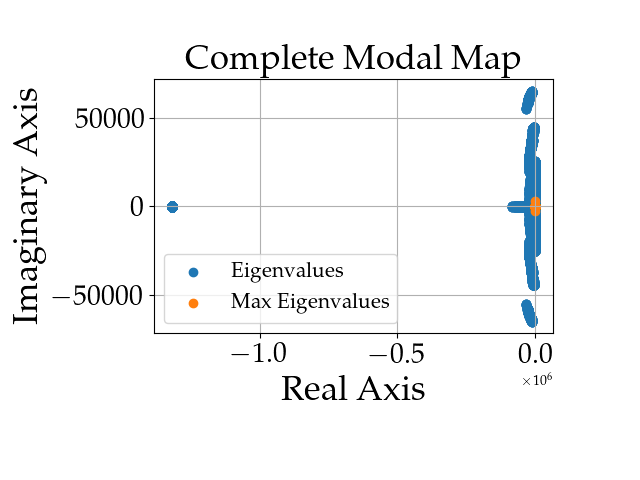
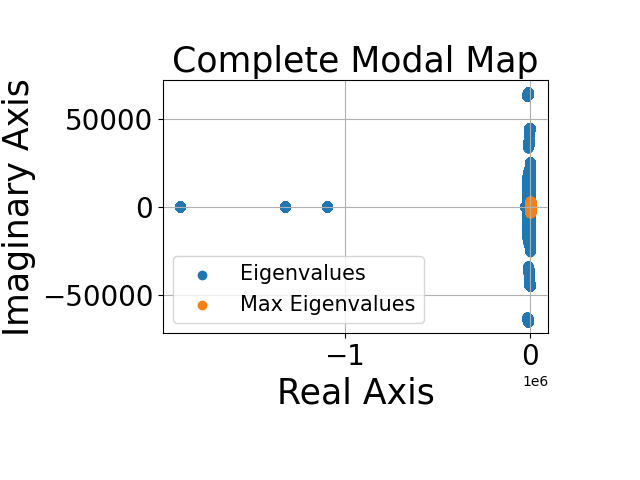
minor changes

diff --git a/identification_of_critical_eigenvalues/clustering_selection_MNdata.py b/identification_of_critical_eigenvalues/clustering_selection_MNdata.py
@@ -1,0 +1,394 @@
+
+"""
+this file 
+- imports and cleans eigenvalue data
+- plots the modal map of the eigenvalues on the real-imaginary axis
+- identifies critical eigenvalues through different clustering methods
+- tests different parameters for the different clustering methods
+- selects the best clustering method and parameters based on silhouette score
+- identifies if there are cases without an eigenvalue in each cluster and 
+  if so, moves closest eigenvalue to that cluster
+- exports information on best clustering model to a csv file 
+
+"""
+
+import pandas as pd
+import matplotlib.pyplot as plt
+import numpy as np
+from sklearn.cluster import KMeans
+from sklearn.cluster import DBSCAN
+from sklearn.cluster import OPTICS
+from sklearn.neighbors import NearestNeighbors
+from sklearn.neighbors import NearestCentroid
+from sklearn.metrics import silhouette_samples, silhouette_score
+from sklearn.model_selection import RandomizedSearchCV, train_test_split
+import matplotlib.cm as cm
+from sklearn.preprocessing import StandardScaler
+import copy
+import joblib
+import os
+
+
+#%% Functions
+def exclude_50Hz_eig(real_selected_df, imag_selected_df, plot_figure=True):
+    
+    imag_selected_df=imag_selected_df.round(3)
+
+    imag_selected_no50Hz=pd.DataFrame()
+    real_selected_no50Hz=pd.DataFrame()
+
+    for i in real_selected_df.columns:
+        imag_serie = imag_selected_df[imag_selected_df[i] != 314.159][i]  # Use boolean indexing instead of query
+        real_serie = real_selected_df.loc[imag_serie.index,i]
+        
+        if i ==0:
+            imag_selected_no50Hz=pd.DataFrame(imag_serie).copy(deep=True).reset_index(drop=True)
+            real_selected_no50Hz=pd.DataFrame(real_serie).copy(deep=True).reset_index(drop=True)
+        else:
+            real_selected_no50Hz=real_selected_no50Hz.merge(pd.DataFrame(real_serie).reset_index(drop=True), how='outer', left_index=True, right_index=True)
+            imag_selected_no50Hz=imag_selected_no50Hz.merge(pd.DataFrame(imag_serie).reset_index(drop=True), how='outer', left_index=True, right_index=True)
+
+    if plot_figure:
+        fig=plt.figure()
+        ax=fig.add_subplot()
+        ax.set_xlabel('Real Axis',fontsize=25)
+        ax.set_ylabel('Imaginary Axis',fontsize=25)
+        ax.set_xlim(x_region)
+        ax.set_ylim(y_region)
+        ax.tick_params(labelsize=20)
+        fig.tight_layout()
+        plt.grid()
+        ax.scatter(real_selected_no50Hz,imag_selected_no50Hz, label='Eigenvalues')
+        ax.legend(loc='lower center',bbox_to_anchor=(0.45, -0.65),fontsize=15, ncol=2)
+        ax.set_title('Modal Map Zoom - No 50Hz eigs', fontsize=25)
+        plt.show()
+    return real_selected_no50Hz, imag_selected_no50Hz
+
+def check_cluster_memberships(labels_reshape, k):
+    ClustersMissingEigs = 0
+    SampleClusterPairs = []  # List to store (sample, cluster) pairs
+    
+    for i in range(labels_reshape.shape[1]):  # For every column (sample)
+        for l in k:  # For each cluster
+            if not any(labels_reshape[:, i] == l): 
+                print(f'There is no eigenvalue from sample {i} in cluster {l}')
+                ClustersMissingEigs = 1
+                SampleClusterPairs.append((i, l))  # Append the (sample, cluster) pair
+    
+    return ClustersMissingEigs, SampleClusterPairs
+
+def plot_clusters(X, labels, x_region, y_region, model, reassignment = 0, target_cluster_points = 0,target_point=0, centroid = 0 ):
+    model_name = type(model).__name__.lower()
+    unique_labels = np.unique(labels)
+    fig = plt.figure()
+    ax=fig.add_subplot()
+    # label the clusters 
+    scatter=ax.scatter(X[:, 0], X[:, 1], c=labels, cmap='viridis', marker='o')
+    handles = [plt.Line2D([0], [0], marker='o', color='w', markerfacecolor=scatter.cmap(scatter.norm(label)), markersize=10) for label in unique_labels]
+    # ax.legend(handles=handles, labels=[str(label) for label in unique_labels], loc='lower left', bbox_to_anchor=(0, 0), fontsize=15, ncol=1)
+    if reassignment == 0:
+        if model_name == 'kmeans':
+            centers = model.cluster_centers_
+            ax.scatter(centers[:, 0], centers[:, 1], c='red', s=200, marker='x', label='Centers')  
+            par_1_str = 'n_clusters=' + str(model.n_clusters)
+            par_2_str = ''
+            ax.text(-100, 210, par_1_str)
+        elif model_name == 'optics':
+            par_1_str = 'min_samples=' + str(model.min_samples)
+            par_2_str = ''
+            ax.text(-100, 210, par_1_str + '\nNumber of clusters: ' + str(len(unique_labels)))
+        elif model_name == 'dbscan':
+            par_1_str = 'eps=' + str(model.eps)
+            par_2_str = ' min_samples=' + str(model.min_samples)
+            ax.text(-100, 210, par_1_str  + par_2_str  + '\nNumber of clusters: ' + str(len(unique_labels)))
+        else: print("wrong")
+    if reassignment == 1:
+        ax.scatter(target_cluster_points[:, 0], target_cluster_points[:, 1], color='yellow', s=100, label='Target Cluster')
+        ax.scatter(target_point[0], target_point[1], color='red', edgecolor='black', s=150, label='Reassigned Point')
+        ax.scatter(centroid[:, 0], centroid[:, 1], c='red', s=200, marker='x', label='Centroid')
+    fig.subplots_adjust(top=0.5, bottom=0.2, left=0.2, right=0.9)
+    ax.set_xlim(x_region)
+    ax.set_ylim(y_region)
+    ax.tick_params(labelsize=20)
+    ax.set_xlabel('Real Axis',fontsize=25)
+    ax.set_ylabel('Imaginary Axis',fontsize=25)
+    ax.set_title(model_name.capitalize() + ' Clustering')
+    ax.grid()
+    fig.tight_layout(pad=4.0)
+    
+    if reassignment == 0:
+        Images_folder = '../identification_of_critical_eigenvalues/Clustering_Training_Images'
+        os.makedirs(Images_folder, exist_ok=True)  # Ensure folder exists
+        save_path = os.path.join(Images_folder, model_name + '_' + par_1_str + '_' + par_2_str + '.png')
+        plt.savefig(save_path)
+        plt.close(fig)  
+    else: 
+        Images_folder = '../identification_of_critical_eigenvalues/DataSet_Clustering_Images'
+        os.makedirs(Images_folder, exist_ok=True)  # Ensure folder exists
+        save_path = os.path.join(Images_folder, 'point_reassignment.png')
+        plt.savefig(save_path)
+        plt.close(fig)  
+
+def reassign_noise_points(X, labels):
+    noise_points = X[labels == -1]
+    if len(noise_points) > 0:
+        clf = NearestCentroid()
+        clf.fit(X[labels != -1], labels[labels != -1])  # Fit only non-noise points
+        noise_labels = clf.predict(noise_points)
+        labels[labels == -1] = noise_labels
+    return labels
+
+
+def import_and_clean(foldername):
+    # import and clean the eigenvalue data
+    df_real=pd.read_csv(f'{foldername}/case_df_real.csv')
+    df_imag=pd.read_csv(f'{foldername}/case_df_imag.csv')
+
+    # remove the empty rows (from the samples that didn't converge)
+    df_real_clean = df_real.dropna(subset=['2'])
+    df_imag_clean = df_imag.dropna(subset=['2'])
+
+    # remove the first column and the  case_id column
+    df_real_clean = df_real_clean.drop([df_real_clean.columns[0]], axis=1).reset_index(drop=True)#, 'case_id', 'Stability'
+    df_imag_clean = df_imag_clean.drop([df_imag_clean.columns[0]], axis=1).reset_index(drop=True)# , 'case_id', 'Stability'
+    df_clean = [df_real_clean, df_imag_clean]
+    return df_clean
+    
+def get_clustering_region_data(x_region, y_region, df_real_clean, df_imag_clean):
+    # gets the eigenvalues in the region 
+    # also deletes the nan values and their cooresponding values from selected_real and selected_imag
+    # also creates X (data for clustering algorithms)
+    
+    # select eigenvalues in the region
+    selected_eig_real = df_real_clean[(df_real_clean > x_region[0]) & (df_real_clean < x_region[1])]
+    selected_eig_imag = df_imag_clean[(df_imag_clean > y_region[0]) & (df_imag_clean < y_region[1])]
+    
+    # create two dataframes, one for real parts and one for imaginary parts.
+    # Each dataframe will have dimensions n_eig x n_cases
+    real_selected_df=pd.DataFrame()
+    imag_selected_df=pd.DataFrame()
+    
+    for i in range(len(selected_eig_imag)): # for each row
+        imag_selected=selected_eig_imag.loc[i,selected_eig_imag.columns].dropna() # removes nan values
+        ind_imag_selected=imag_selected.index # indices of non-nan values 
+        
+        real_selected=selected_eig_real.iloc[i][ind_imag_selected].dropna() # out of the values in imag_selected, delete the nan values 
+        imag_selected=imag_selected[real_selected.index]
+        
+        if i==0:
+            real_selected_df=pd.DataFrame(real_selected).copy(deep=True).reset_index(drop=True)
+            imag_selected_df=pd.DataFrame(imag_selected).copy(deep=True).reset_index(drop=True)
+        else:
+            real_selected_df=real_selected_df.merge(pd.DataFrame(real_selected).reset_index(drop=True), how='outer', left_index=True, right_index=True)
+            imag_selected_df=imag_selected_df.merge(pd.DataFrame(imag_selected).reset_index(drop=True), how='outer', left_index=True, right_index=True)
+    
+    # drop all rows which contain any naan values 
+    real_selected_df=real_selected_df.dropna()
+    imag_selected_df=imag_selected_df.dropna()
+    
+    # Convert DataFrame to numpy arrays to flatten
+    selected_eig_real_flat = real_selected_df.to_numpy().flatten()
+    selected_eig_imag_flat = imag_selected_df.to_numpy().flatten()
+    
+    # Combine the cleaned real and imaginary parts
+    X = np.vstack([selected_eig_real_flat, selected_eig_imag_flat]).T
+    
+    selected_df = [real_selected_df, imag_selected_df, X]
+    return selected_df
+
+#%%    
+#if __name__ == "__main__":
+
+    #%%
+[df_real_clean, df_imag_clean]=import_and_clean('../results/MareNostrum/datagen_ACOPF_slurm23172357_cu10_nodes32_LF09_seed3_nc3_ns500_d7_20250627_214226_7664')
+
+#%%
+n_cases_clean= len(df_real_clean)
+
+n_subsamples= 1000
+
+df_real_remaining, df_real_subsamples, df_imag_remaining, df_imag_subsamples = train_test_split(df_real_clean, df_imag_clean, test_size = n_subsamples, shuffle = True, random_state = 42) 
+
+#%%
+# select the eigenvalues that have the highest real parts in each row 
+df_real_subsamples_max = df_real_subsamples[df_real_subsamples.columns[0:2]]
+df_imag_subsamples_max = df_imag_subsamples[df_imag_subsamples.columns[0:2]]
+
+#%% plot the full modal map with highest values 
+fig=plt.figure()
+ax=fig.add_subplot()
+ax.set_xlabel('Real Axis',fontsize=25)
+ax.set_ylabel('Imaginary Axis',fontsize=25)
+ax.tick_params(labelsize=20)
+fig.tight_layout(pad=5)
+plt.grid()
+ax.scatter(df_real_subsamples.drop(['case_id', 'Stability'],axis=1),df_imag_subsamples.drop(['case_id', 'Stability'],axis=1), label='Eigenvalues')
+ax.scatter(df_real_subsamples_max, df_imag_subsamples_max, label='Max Eigenvalues')
+ax.legend(loc='lower left', fontsize=15, ncol=1)  
+ax.set_title('Complete Modal Map', fontsize=25)
+plt.savefig("Complete Modal Map.png")  
+plt.close()  
+
+
+    
+#%% plot the modal map for the region 
+
+x_region = [-2000,3000]
+y_region = [0,3500]
+
+fig=plt.figure()
+ax=fig.add_subplot()
+ax.set_xlabel('Real Axis',fontsize=25)
+ax.set_ylabel('Imaginary Axis',fontsize=25)
+ax.set_xlim(x_region)
+ax.set_ylim(y_region)
+ax.tick_params(labelsize=20)
+fig.tight_layout(pad=4.0)
+plt.grid()
+ax.scatter(df_real_subsamples.drop(['case_id', 'Stability'],axis=1),df_imag_subsamples.drop(['case_id', 'Stability'],axis=1), label='Eigenvalues')
+ax.scatter(df_real_subsamples_max, df_imag_subsamples_max, label='Max Eigenvalues')
+ax.legend(loc='lower left', fontsize=15, ncol=1)  
+ax.set_title('Complete Clustering Region', fontsize=25)
+plt.savefig("Complete_Clustering_Region.png")  
+plt.close()  
+
+#%% get clustering region data
+[real_selected_df, imag_selected_df, X] = get_clustering_region_data(x_region, y_region, df_real_subsamples.drop(['case_id', 'Stability'],axis=1).reset_index(drop=True), df_imag_subsamples.drop(['case_id', 'Stability'],axis=1).reset_index(drop=True))
+
+
+#%% If you want to exclude 50 Hz eigenvalues
+
+real_selected_no50Hz,imag_selected_no50Hz=exclude_50Hz_eig(real_selected_df, imag_selected_df)
+real_selected_df=real_selected_no50Hz.copy(deep=True).dropna()
+imag_selected_df=imag_selected_no50Hz.copy(deep=True).dropna()
+
+selected_eig_real_flat = real_selected_df.to_numpy().flatten()
+selected_eig_imag_flat = imag_selected_df.to_numpy().flatten()
+
+X = np.vstack([selected_eig_real_flat, selected_eig_imag_flat]).T
+#%% K Means cluster
+cluster_method = 'KMeans'
+
+# test for different kvals (number of clusters)
+n_clusters = [10,15,20]
+K_Means_Results = pd.DataFrame({'cluster_method': [cluster_method] * len(n_clusters), 'n_clusters': n_clusters, 'parameter_2': [np.nan] * len(n_clusters), 'silhouette_score': [np.nan] * len(n_clusters)})
+counter = 0
+for i in n_clusters:
+    kmeans = KMeans(n_init=10, n_clusters=i, random_state=42)
+    kmeans.fit(X)  
+    labels = kmeans.labels_  # Cluster labels for each data point
+    K_Means_Results.loc[counter, 'silhouette_score'] = silhouette_score(X, labels)
+    
+    # unique_labels = np.unique(labels)
+    # labels_reshape=labels.reshape(imag_selected_df.shape)
+    # ClustersMissingEigs, SampleClusterPairs = check_cluster_memberships(labels_reshape, unique_labels)
+    
+    plot_clusters(X, labels, x_region, y_region, kmeans)
+    counter += 1
+
+#%% Optics 
+cluster_method = 'Optics'
+
+# test for different min_samples 
+min_samples = [10, 100, 1000, 2000, 2200, 2300, 2400]
+Optics_results = pd.DataFrame({'cluster_method': [cluster_method] * len(min_samples), 'min_samples': min_samples,  'parameter_2': [np.nan] * len(min_samples), 'silhouette_score': [np.nan] * len(min_samples)})
+counter = 0
+for i in min_samples: 
+    optics = OPTICS(min_samples=i)
+    optics.fit(X)
+    labels = optics.labels_
+    labels = reassign_noise_points(X, labels)
+    
+    Optics_results.loc[counter, 'silhouette_score'] = silhouette_score(X, labels)
+      
+    # unique_labels = np.unique(labels)
+    # labels_reshape=labels.reshape(imag_selected_df.shape)
+    # ClustersMissingEigs, SampleClusterPairs = check_cluster_memberships(labels_reshape, unique_labels)
+    
+    plot_clusters(X, labels, x_region, y_region, optics)
+    counter += 1
+
+#%% DBSCAN
+cluster_method = 'DBSCAN'
+
+# # k distance graph 
+# min_samples = 100  # Adjust this value to see the effect on the elbow
+# nbrs = NearestNeighbors(n_neighbors=min_samples).fit(X)
+# distances, indices = nbrs.kneighbors(X)
+# distances = np.sort(distances[:, -1])  # Distances to the `min_samples-th` nearest neighbor
+# plt.plot(distances)
+# plt.xlabel("Points sorted by distance")
+# plt.ylabel(f"{min_samples}-th Nearest Neighbor Distance")
+# plt.title("k-Distance Plot")
+# plt.show()
+
+dbscan = DBSCAN()
+eps =  [0.5, 1, 1.5, 2]  # chosen because they are elbow of kdistance graph 
+min_samples = [20, 40, 60, 80]
+param_grid = [(e, m) for e in eps for m in min_samples]
+DBSCAN_results = pd.DataFrame({
+    'cluster_method': ['DBSCAN'] * len(param_grid),
+    'eps': [p[0] for p in param_grid],
+    'min_samples': [p[1] for p in param_grid],
+    'silhouette_score': [np.nan] * len(param_grid)
+})
+counter = 0
+for i in eps:
+    for j in min_samples:
+        dbscan = DBSCAN(eps=i, min_samples=j)
+        labels = dbscan.fit_predict(X)
+        labels = reassign_noise_points(X, labels)
+
+        DBSCAN_results.loc[counter, 'silhouette_score'] = silhouette_score(X, labels)
+        
+        # unique_labels = np.unique(labels)
+        # labels_reshape=labels.reshape(imag_selected_df.shape)
+        # ClustersMissingEigs, SampleClusterPairs = check_cluster_memberships(labels_reshape, unique_labels)
+        
+        plot_clusters(X, labels, x_region, y_region, dbscan)
+        counter+=1
+
+#%% identify the best silhouette score from dataframe 
+
+# combine the dataframes 
+K_Means_Results = K_Means_Results.rename(columns={'n_clusters': 'parameter_1'})
+Optics_results = Optics_results.rename(columns={'min_samples': 'parameter_1'})
+DBSCAN_results = DBSCAN_results.rename(columns={'eps': 'parameter_1'})
+DBSCAN_results = DBSCAN_results.rename(columns={'min_samples': 'parameter_2'})
+Results = pd.concat([K_Means_Results, Optics_results, DBSCAN_results], axis=0, ignore_index=True)
+pd.DataFrame.to_csv(Results, 'clustering_selection_results.csv', index=False)
+
+
+# Get the row with the highest silhouette score
+highest_silhouette_row = Results.loc[Results['silhouette_score'].idxmax()]
+print("The best model is:\n",  highest_silhouette_row)
+
+
+# Run the best model again so that it can be saved 
+best_method = highest_silhouette_row.iloc[0]
+best_parameter1 = highest_silhouette_row.iloc[1]
+best_parameter2 = highest_silhouette_row.iloc[2] 
+
+if best_method == "KMeans":
+    kmeans = KMeans(n_init=10, n_clusters=int(best_parameter1), random_state=42)
+    kmeans.fit(X)
+    labels = kmeans.labels_  
+    best_model = kmeans
+elif best_method == "Optics":
+    optics = OPTICS(min_samples=int(best_parameter1))
+    optics.fit(X)
+    labels = optics.labels_
+    best_model = optics
+elif best_method == "DBSCAN":
+    dbscan = DBSCAN(eps=best_parameter1, min_samples=int(best_parameter2))
+    dbscan.fit(X)
+    labels = dbscan.labels_
+    best_model = dbscan
+
+# save the best model
+joblib.dump(best_model, 'best_model.joblib')
+
+
+    
+    
+    
